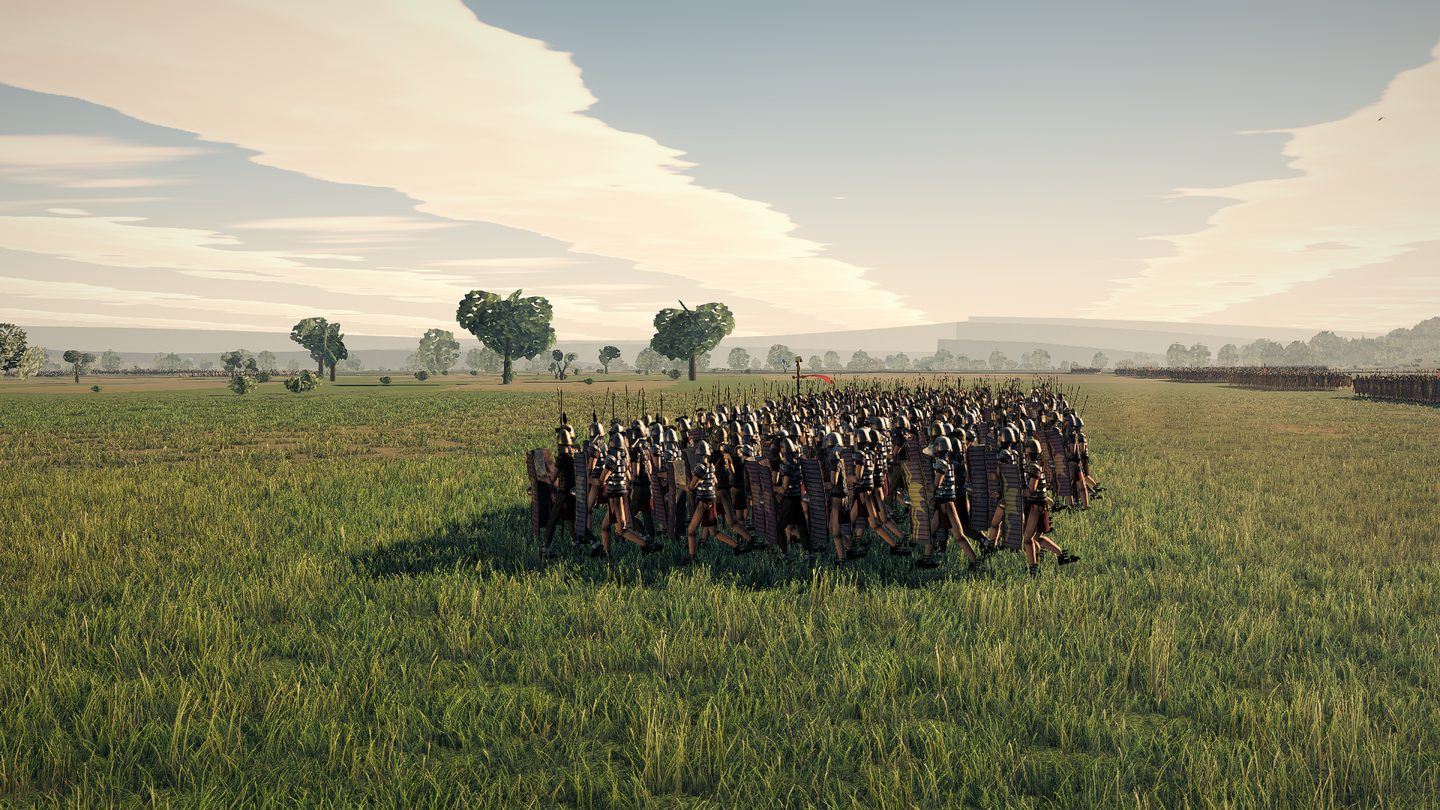
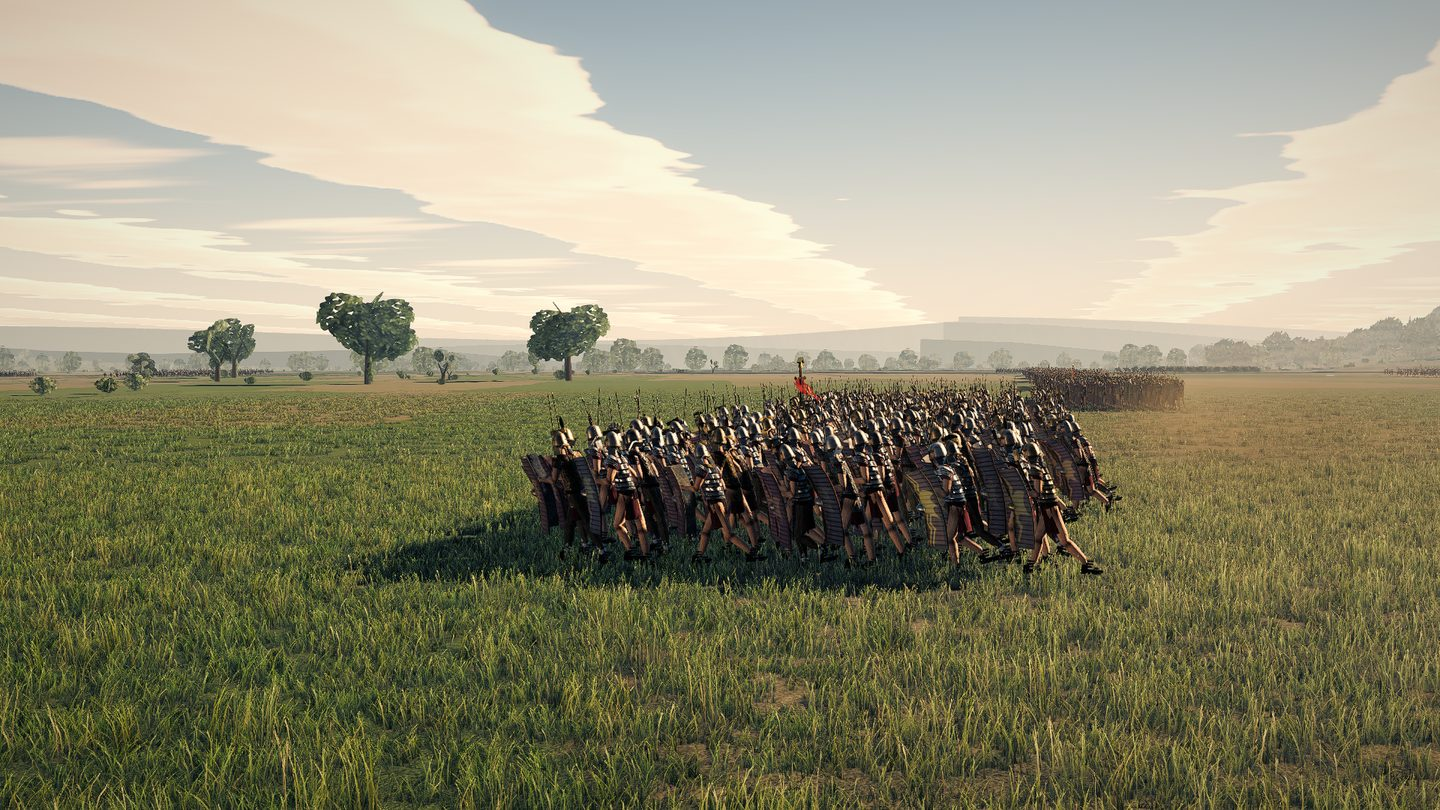
fix(units): the lean was two thirds inside the bend, and a grader measured it
The shader does not rotate a man about his heels, it bends him: `lean = iOrient.z * bendT^2`
with `bendT = clamp( y / SOLDIER_LEAN_H )` at 1.5 m. The shoulder takes (1.4/1.5)^2 = 0.87 of
the angle and the belt takes (1.0/1.5)^2 = 0.44, so the *trunk* — the segment an eye reads —
tilts by about 0.65 of the nominal.

A blind grader did exactly that measurement. Given the frame and told it was 0.30 s into an
ordered advance, it took the trunk axis of five men across the rank, reported **4 degrees
against the 8 to 15 a real body produces**, and scored C6 at 1. The nominal at that instant
was 8.5. The lean was there and two thirds of it was inside the bend.

`LEAN_ACCEL` is now `(1/9.81) * 1.55`, and the two numbers are written down separately on
purpose: the first is physics, the second is 1/0.65, the profile's own attenuation over the
segment the eye reads. The day `SOLDIER_LEAN_H` or the quadratic changes, the second is wrong
and the first is not. The clamp goes 0.30 -> 0.42 rad so the ceiling stays a hard sprint start
rather than becoming the common case.

The ladder over one cohort's own men, at the recovered value:

  halted   0
  start    mean 0.220 (12.6 deg), 0.118 to 0.333
  steady   0
  halt     mean 0.187, -0.287 to -0.098
  pool.lean, every man, all three moments: 0.071

About 8.2 degrees of measured trunk tilt at the start, inside the band the grader named, and
the block now visibly pitches into the order.

diff --git a/src/units/UnitRenderSystem.ts b/src/units/UnitRenderSystem.ts
@@ -268,12 +268,31 @@ const SLOT_STRAGGLE = 0.30;
  * Deceleration is the same arithmetic with the sign reversed and is the more valuable half:
  * a line stopping is the moment weight is most visible.
  *
- * `LEAN_ACCEL_MAX` bounds it at 0.30 rad (17 degrees), which is a hard sprint start. The
- * crowd solver can shove a man several metres a second in one tick, so an unbounded reading
- * of the pool's velocity would occasionally lay somebody flat.
+ * `LEAN_ACCEL_MAX` bounds it at 0.42 rad, which is a hard sprint start. The crowd solver can
+ * shove a man several metres a second in one tick, so an unbounded reading of the pool's
+ * velocity would occasionally lay somebody flat.
+ *
+ * ## The 1.55, and why the physical number alone under-reads
+ *
+ * The shader does not rotate a man about his heels. `skinShader.ts` bends him:
+ * `lean = iOrient.z * bendT * bendT` with `bendT = clamp( y / SOLDIER_LEAN_H )` and
+ * `SOLDIER_LEAN_H` at 1.5 m, so a vertex at the shoulder takes `(1.4/1.5)^2` = 0.87 of the
+ * angle and one at the belt takes `(1.0/1.5)^2` = 0.44. What an eye — or a grader with a
+ * ruler — measures is the tilt of the *trunk*, the segment between those two, and that
+ * averages about 0.65 of the nominal.
+ *
+ * A blind grader did exactly that. Told which frame was 0.30 s into an ordered advance, it
+ * measured the trunk axis of five men across the rank, reported **4 degrees against the 8 to
+ * 15 a real body produces**, and scored C6 at 1. The nominal at that instant was 8.5. The
+ * lean was there and two thirds of it was inside the bend.
+ *
+ * So the coefficient carries the recovery explicitly: `1/9.81` is the physics and `1.55` is
+ * `1/0.65`, which is the profile's own attenuation over the segment the eye reads. Both
+ * numbers are written down separately on purpose — the day `SOLDIER_LEAN_H` or the quadratic
+ * changes, the second one is wrong and the first one is not.
  */
-const LEAN_ACCEL = 1 / 9.81;
-const LEAN_ACCEL_MAX = 0.30;
+const LEAN_ACCEL = (1 / 9.81) * 1.55;
+const LEAN_ACCEL_MAX = 0.42;
 /**
  * Time constants for the two low passes, in reciprocal seconds.
  *

diff --git a/docs/tech/CONTACT-AND-WEIGHT.md b/docs/tech/CONTACT-AND-WEIGHT.md
@@ -303,10 +303,29 @@ signal whose noise is many times the signal.
 | moment | mean abs | min | max |
 |---|---|---|---|
 | halted and settled | 0 | 0 | 0 |
-| **0.30 s after the order to advance** | **0.139** | 0.021 | **0.219** |
-| steady march, 5 s later | 0 | 0 | 0.0003 |
-| **0.30 s after the order to stand** | **0.118** | **−0.194** | −0.017 |
+| **0.30 s after the order to advance** | **0.220** (12.6°) | 0.118 | **0.333** |
+| steady march, 5 s later | 0 | 0 | 0 |
+| **0.30 s after the order to stand** | **0.187** | **−0.287** | −0.098 |
 | `pool.lean` over the same men | 0.071 | 0.071 | 0.071 |
+
+### The physical number alone under-reads by a third, and a grader measured exactly that
+
+The shader does not rotate a man about his heels, it bends him:
+`lean = iOrient.z * bendT²` with `bendT = clamp( y / SOLDIER_LEAN_H )` and `SOLDIER_LEAN_H` at
+1.5 m. A vertex at the shoulder takes (1.4/1.5)² = 0.87 of the angle and one at the belt takes
+(1.0/1.5)² = 0.44, so the **trunk** — the segment an eye reads and a grader measures — tilts by
+about 0.65 of the nominal.
+
+A blind grader did precisely that. Given the frame and told what moment it was, it measured
+the trunk axis of five men across the rank, reported **4° against the 8–15° a real body
+produces**, and scored C6 at 1. The nominal at that instant was 8.5°; two thirds of it were
+inside the bend.
+
+So the coefficient carries the recovery explicitly — `LEAN_ACCEL = (1/9.81) × 1.55`, where the
+1.55 is 1/0.65 and the two numbers are written down separately so that the day
+`SOLDIER_LEAN_H` or the quadratic changes, the second one is wrong and the first one is not.
+The ladder above is at the recovered value: 12.6° nominal at the start, about 8.2° of measured
+trunk tilt, inside the band the grader named.
 
 ![](../images/contact/lean-start.jpg)
 
